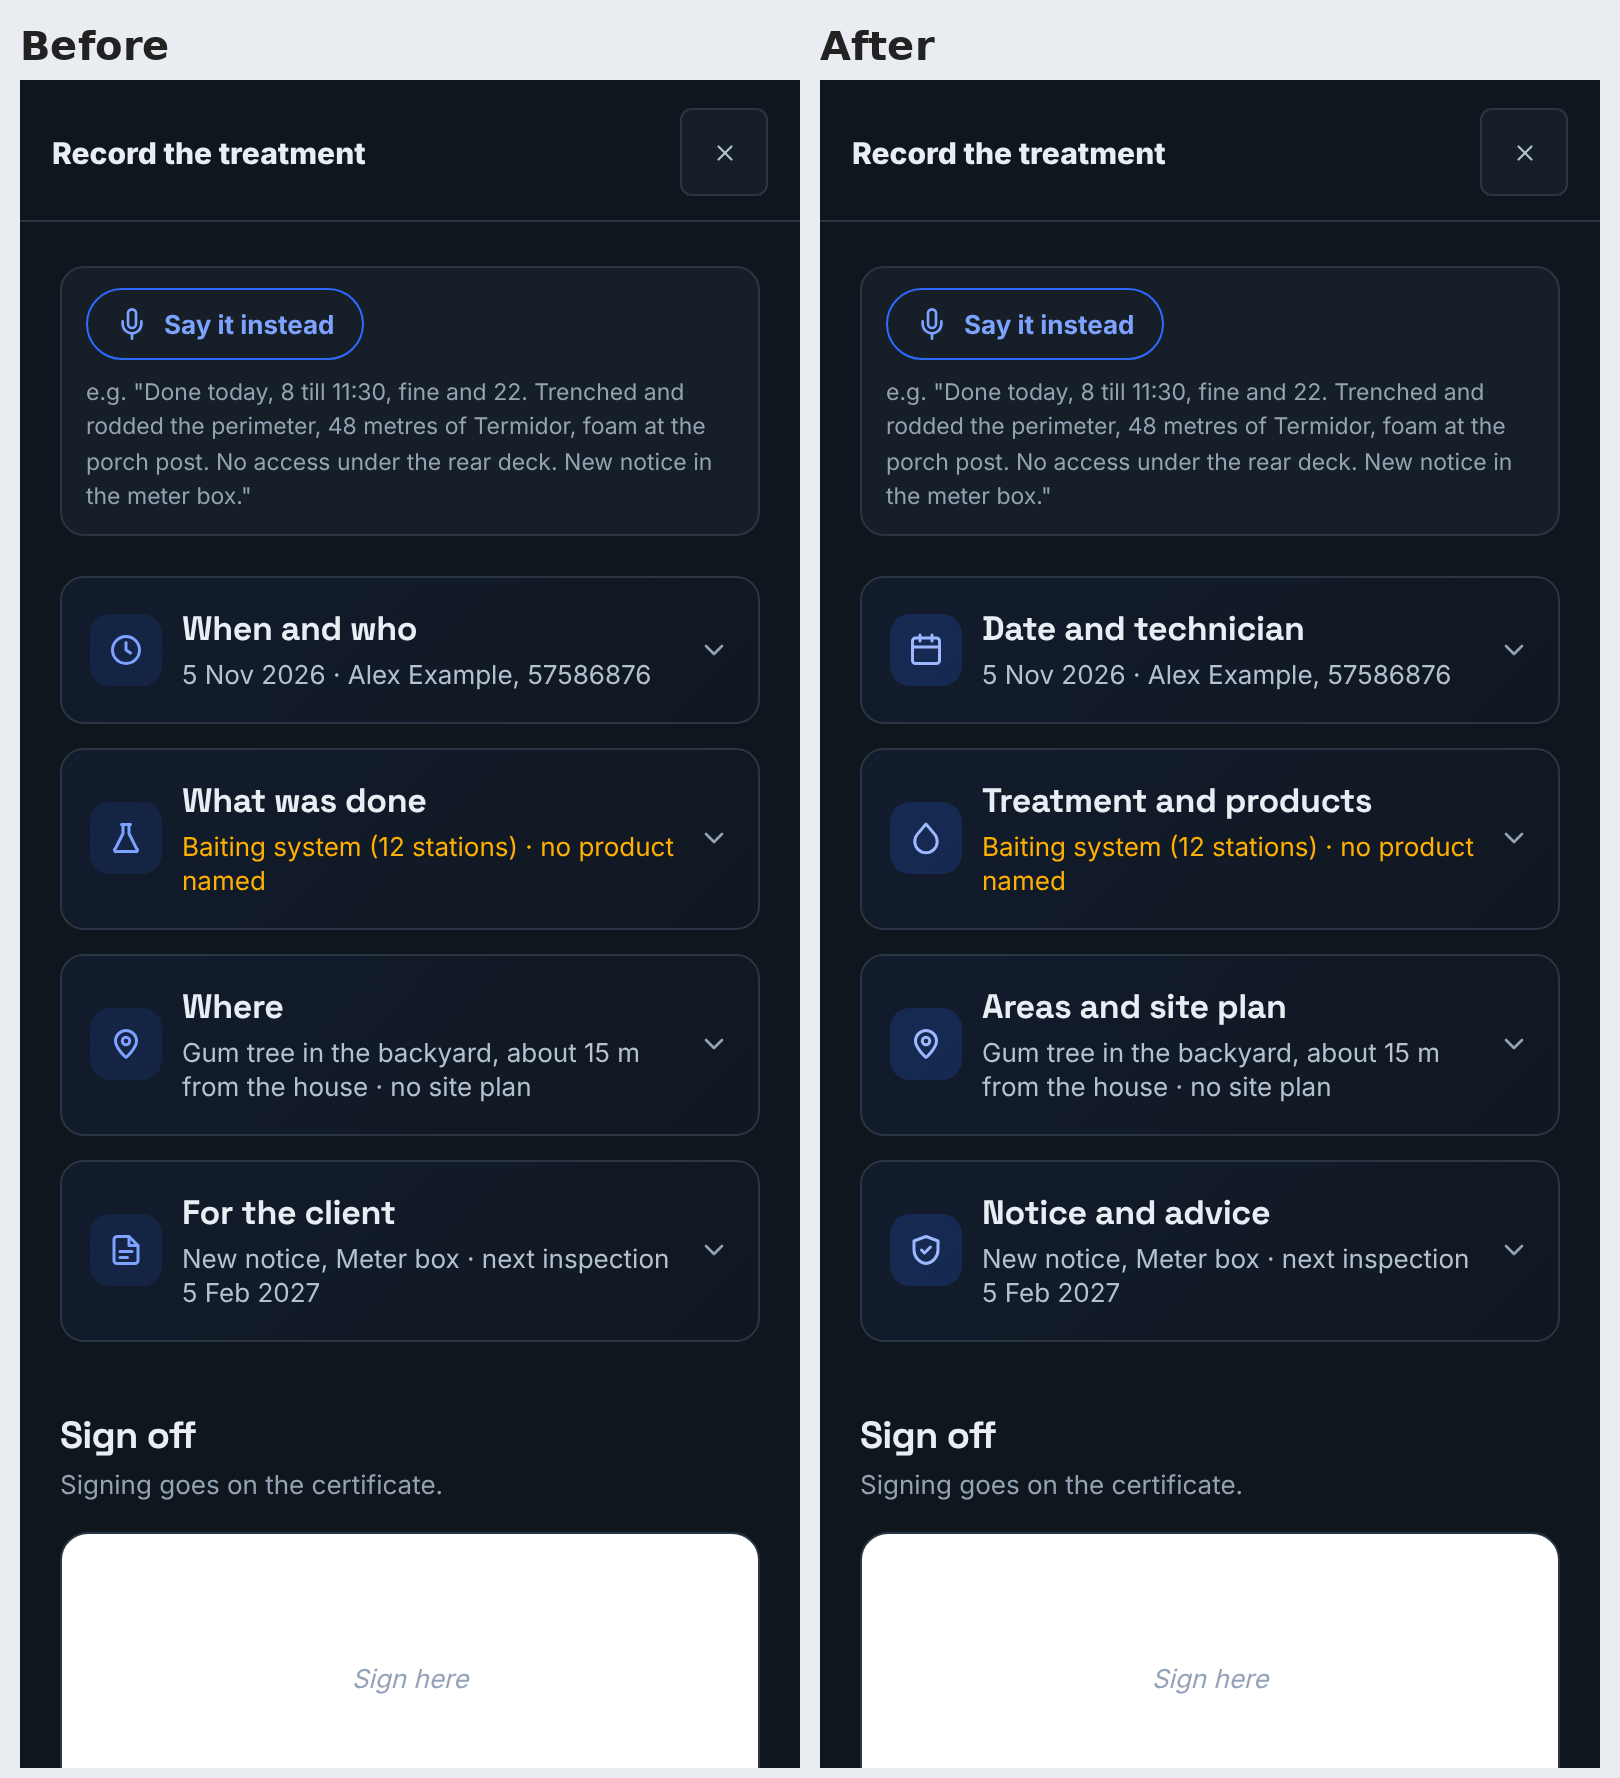
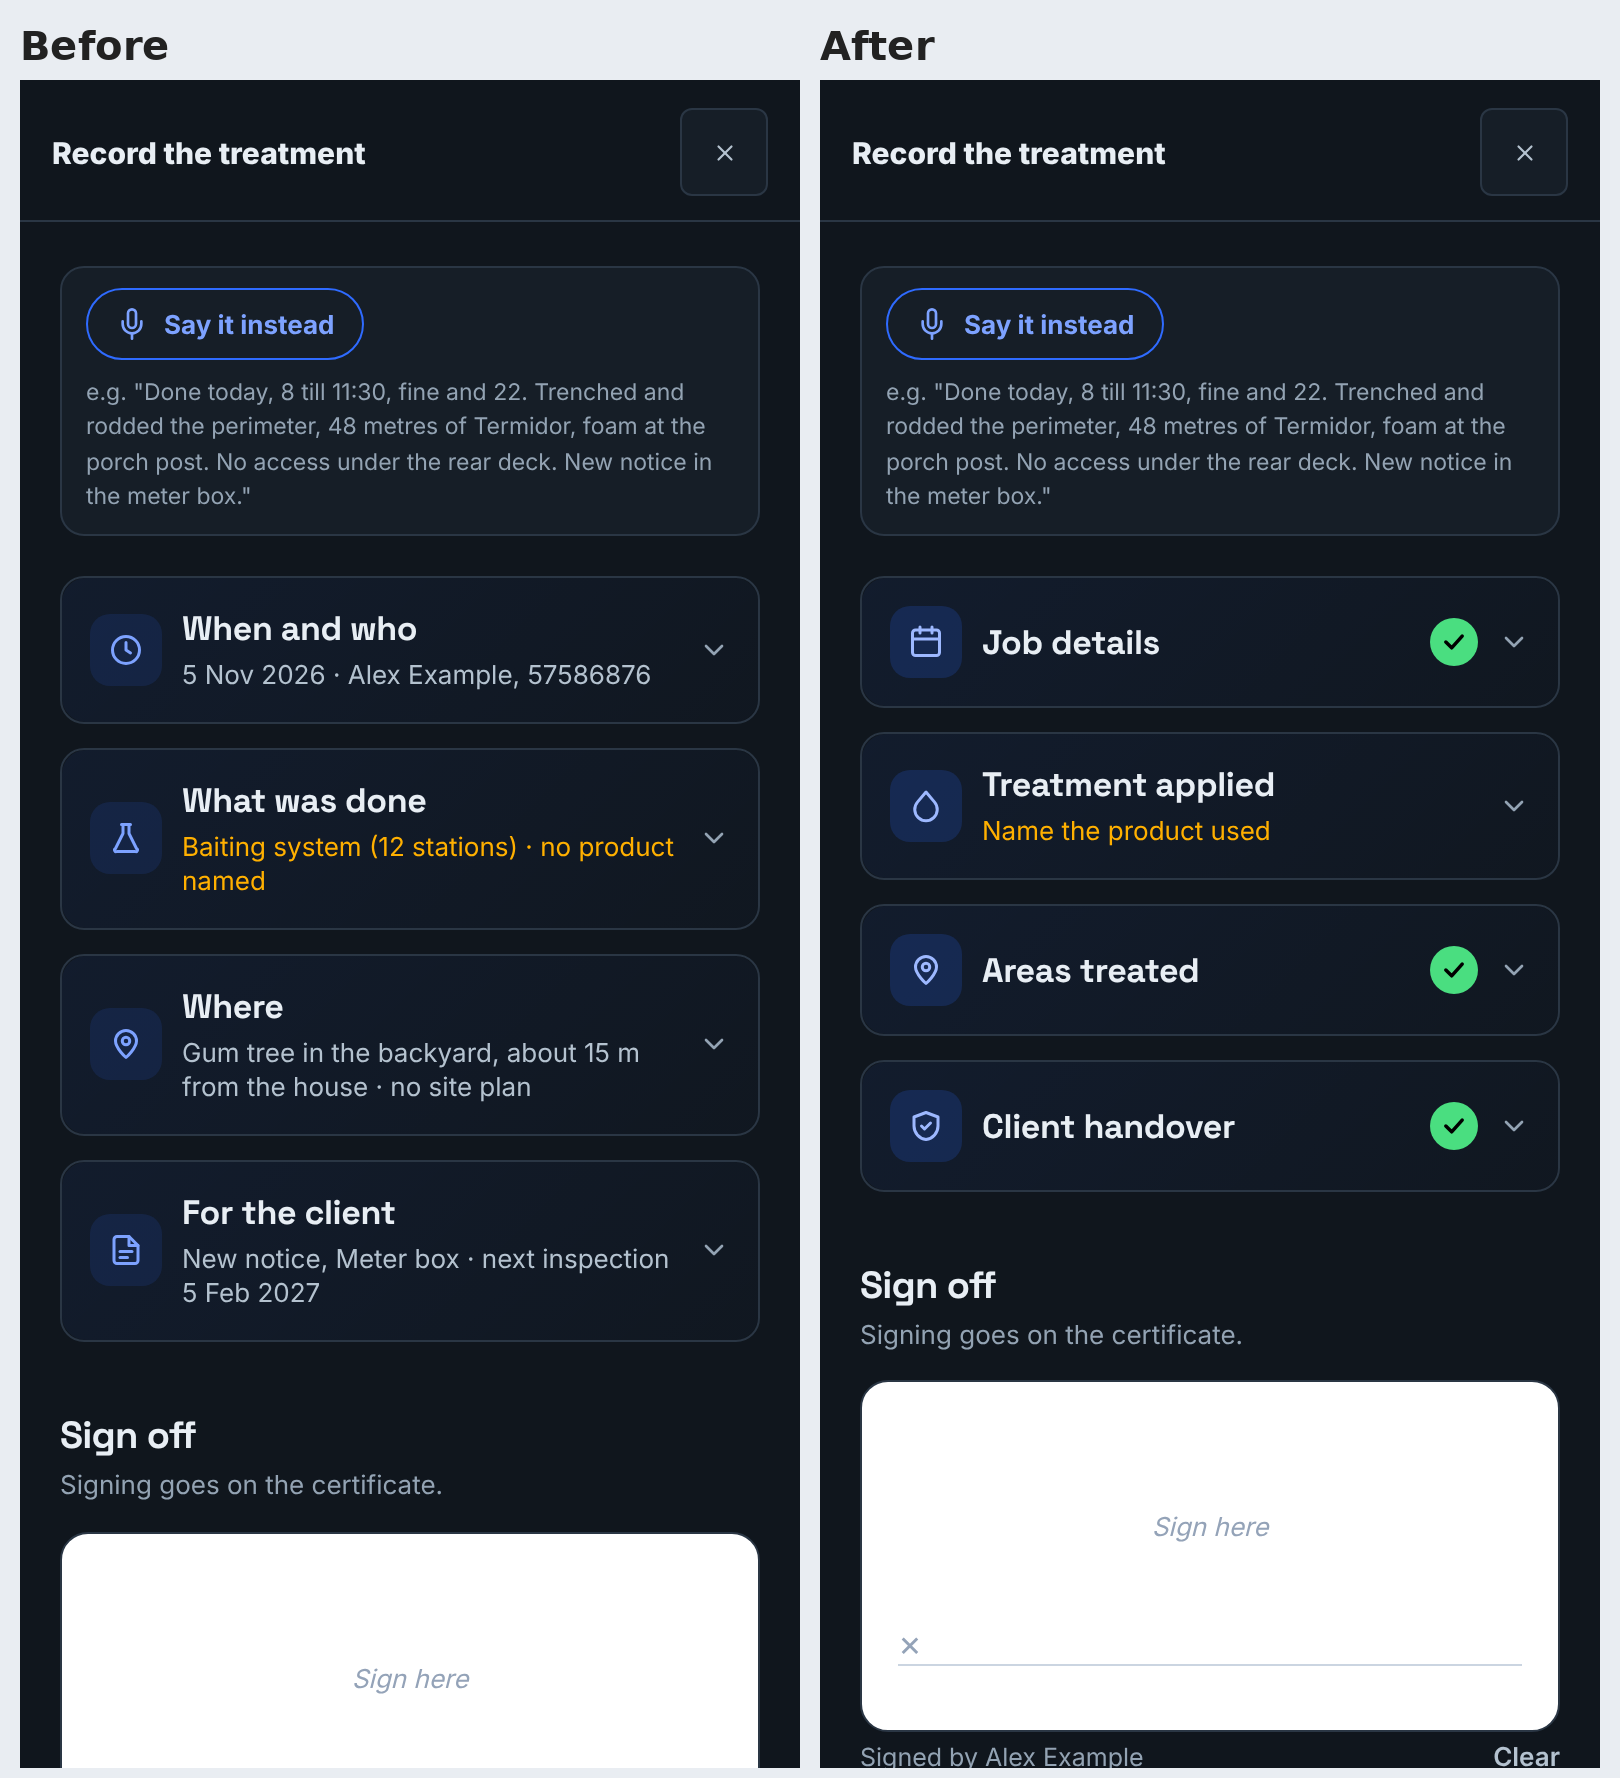
Treatment record: shorter section titles, a tick when a part is done
The four parts are now Job details, Treatment applied, Areas treated and
Client handover. The long summary under each title is gone: a finished
part shows a green tick, and one that still needs something shows a short
amber note (Add the licence no., Name the product used, and so on).
Inside Areas treated the two fields are Treated and Not treated, and why.

Claude-Session: https://claude.ai/code/session_01SL5pNncMuSWewmSgV6B5Sh

diff --git a/index.html b/index.html
@@ -573,7 +573,8 @@
       <details class="quote-card quote-fold sheet-fold" id="trFold1">
         <summary>
           <span class="fgroup-icon" aria-hidden="true"><svg class="icon" width="18" height="18" viewBox="0 0 24 24" fill="none" stroke="currentColor" stroke-width="2" stroke-linecap="round" stroke-linejoin="round"><rect x="3" y="4" width="18" height="17" rx="2"/><path d="M16 2v4"/><path d="M8 2v4"/><path d="M3 10h18"/></svg></span>
-          <span class="quote-fold-text"><span class="quote-card-title">Date and technician</span><span class="quote-fold-sub" id="trSub1"></span></span>
+          <span class="quote-fold-text"><span class="quote-card-title">Job details</span><span class="quote-fold-sub" id="trSub1"></span><span class="sr-only sheet-fold-done-text">Done</span></span>
+          <span class="sheet-fold-done" aria-hidden="true"><svg class="icon" width="14" height="14" viewBox="0 0 24 24" fill="none" stroke="currentColor" stroke-width="3" stroke-linecap="round" stroke-linejoin="round"><path d="m5 12 5 5 9-10"/></svg></span>
           <svg class="icon quote-fold-chev" width="16" height="16" viewBox="0 0 24 24" fill="none" stroke="currentColor" stroke-width="2" stroke-linecap="round" stroke-linejoin="round"><path d="m6 9 6 6 6-6"/></svg>
         </summary>
         <div class="sheet-fold-body">
@@ -625,7 +626,8 @@
       <details class="quote-card quote-fold sheet-fold" id="trFold2">
         <summary>
           <span class="fgroup-icon" aria-hidden="true"><svg class="icon" width="18" height="18" viewBox="0 0 24 24" fill="none" stroke="currentColor" stroke-width="2" stroke-linecap="round" stroke-linejoin="round"><path d="M12 2.7 6.3 9.4a7.5 7.5 0 1 0 11.4 0z"/></svg></span>
-          <span class="quote-fold-text"><span class="quote-card-title">Treatment and products</span><span class="quote-fold-sub" id="trSub2"></span></span>
+          <span class="quote-fold-text"><span class="quote-card-title">Treatment applied</span><span class="quote-fold-sub" id="trSub2"></span><span class="sr-only sheet-fold-done-text">Done</span></span>
+          <span class="sheet-fold-done" aria-hidden="true"><svg class="icon" width="14" height="14" viewBox="0 0 24 24" fill="none" stroke="currentColor" stroke-width="3" stroke-linecap="round" stroke-linejoin="round"><path d="m5 12 5 5 9-10"/></svg></span>
           <svg class="icon quote-fold-chev" width="16" height="16" viewBox="0 0 24 24" fill="none" stroke="currentColor" stroke-width="2" stroke-linecap="round" stroke-linejoin="round"><path d="m6 9 6 6 6-6"/></svg>
         </summary>
         <div class="sheet-fold-body">
@@ -649,16 +651,17 @@
       <details class="quote-card quote-fold sheet-fold" id="trFold3">
         <summary>
           <span class="fgroup-icon" aria-hidden="true"><svg class="icon" width="18" height="18" viewBox="0 0 24 24" fill="none" stroke="currentColor" stroke-width="2" stroke-linecap="round" stroke-linejoin="round"><path d="M12 21s-7-6.2-7-11a7 7 0 0 1 14 0c0 4.8-7 11-7 11z"/><circle cx="12" cy="10" r="2.5"/></svg></span>
-          <span class="quote-fold-text"><span class="quote-card-title">Areas and site plan</span><span class="quote-fold-sub" id="trSub3"></span></span>
+          <span class="quote-fold-text"><span class="quote-card-title">Areas treated</span><span class="quote-fold-sub" id="trSub3"></span><span class="sr-only sheet-fold-done-text">Done</span></span>
+          <span class="sheet-fold-done" aria-hidden="true"><svg class="icon" width="14" height="14" viewBox="0 0 24 24" fill="none" stroke="currentColor" stroke-width="3" stroke-linecap="round" stroke-linejoin="round"><path d="m5 12 5 5 9-10"/></svg></span>
           <svg class="icon quote-fold-chev" width="16" height="16" viewBox="0 0 24 24" fill="none" stroke="currentColor" stroke-width="2" stroke-linecap="round" stroke-linejoin="round"><path d="m6 9 6 6 6-6"/></svg>
         </summary>
         <div class="sheet-fold-body">
       <div class="job-field">
-        <div class="job-field-label">Areas treated</div>
+        <div class="job-field-label">Treated</div>
         <textarea class="job-input" id="trAreas" rows="2" placeholder="e.g. Laundry east wall; perimeter of the building"></textarea>
       </div>
       <div class="job-field">
-        <div class="job-field-label">Areas not treated, and why</div>
+        <div class="job-field-label">Not treated, and why</div>
         <textarea class="job-input" id="trNotTreated" rows="2" placeholder="e.g. Under the rear deck, no access"></textarea>
       </div>
       <div class="job-field">
@@ -703,7 +706,8 @@
       <details class="quote-card quote-fold sheet-fold" id="trFold4">
         <summary>
           <span class="fgroup-icon" aria-hidden="true"><svg class="icon" width="18" height="18" viewBox="0 0 24 24" fill="none" stroke="currentColor" stroke-width="2" stroke-linecap="round" stroke-linejoin="round"><path d="M12 3 4 6v6c0 4.5 3.4 8.3 8 9 4.6-.7 8-4.5 8-9V6z"/><path d="m9 12 2 2 4-4"/></svg></span>
-          <span class="quote-fold-text"><span class="quote-card-title">Notice and advice</span><span class="quote-fold-sub" id="trSub4"></span></span>
+          <span class="quote-fold-text"><span class="quote-card-title">Client handover</span><span class="quote-fold-sub" id="trSub4"></span><span class="sr-only sheet-fold-done-text">Done</span></span>
+          <span class="sheet-fold-done" aria-hidden="true"><svg class="icon" width="14" height="14" viewBox="0 0 24 24" fill="none" stroke="currentColor" stroke-width="3" stroke-linecap="round" stroke-linejoin="round"><path d="m5 12 5 5 9-10"/></svg></span>
           <svg class="icon quote-fold-chev" width="16" height="16" viewBox="0 0 24 24" fill="none" stroke="currentColor" stroke-width="2" stroke-linecap="round" stroke-linejoin="round"><path d="m6 9 6 6 6-6"/></svg>
         </summary>
         <div class="sheet-fold-body">

diff --git a/js/treatment.js b/js/treatment.js
@@ -357,37 +357,21 @@ function openTreatmentRecord() {
   document.querySelector('#treatmentOverlay .page-sheet-body').scrollTop = 0;
 }
 
-// ── THE FOLDS ── Each part of the record folds to one line saying what it
-// holds, amber when something the certificate needs is missing. On opening
-// (and after a voice fill) the parts with a gap open and the rest fold.
+// ── THE FOLDS ── Each part of the record folds to its title, with a tick
+// once it's done, or a short amber note saying what the certificate still
+// needs. On opening (and after a voice fill) the parts with a gap open and
+// the rest fold.
 function treatmentFoldLines() {
   const v = id => document.getElementById(id).value.trim();
-  const tech = v('trTech'), lic = v('trLicence');
-  const times = [v('trStart'), v('trFinish')].filter(Boolean).map(formatClockTime).join('–');
-  const when = [v('trDate') ? formatAnswerDate(v('trDate')) : '', times].filter(Boolean).join(', ');
-  const ticked = [...document.querySelectorAll('#trMethods input[type=checkbox]:checked')].map(box => {
-    const m = TREATMENT_METHODS[box.dataset.key] || {};
-    const qty = document.querySelector(`#trMethods [data-qty="${box.dataset.key}"]`);
-    const n = qty && qty.value.trim();
-    return (m.short || m.label || box.dataset.key) + (n ? ` (${n} ${m.qty === 'stations' ? 'stations' : 'm'})` : '');
-  });
+  const ticked = document.querySelectorAll('#trMethods input[type=checkbox]:checked').length;
   const products = readTreatmentProducts().map(p => p.name).filter(Boolean);
-  const areas = v('trAreas');
-  const plan = sitePlanHasContent(treatmentPlanDraft) ? 'site plan drawn' : treatmentSketch && !treatmentSketch.empty ? 'sketch drawn' : '';
   const notice = v('trNotice');
-  const noticeText = notice === 'none' ? 'No notice placed' : `${notice === 'updated' ? 'Notice updated' : 'New notice'}${v('trNoticeWhere') ? ', ' + v('trNoticeWhere') : ''}`;
-  const next = v('trNext');
+  const need = text => ({ warn: true, text });
   return [
-    !tech ? { warn: true, text: `${when ? when + '. ' : ''}Technician not filled in` }
-      : !lic ? { warn: true, text: `${tech}, licence no. missing` }
-      : { text: [when, `${tech}, ${lic}`].filter(Boolean).join(' · ') },
-    !ticked.length ? { warn: true, text: 'Nothing ticked yet' }
-      : !products.length ? { warn: true, text: `${ticked.join(', ')} · no product named` }
-      : { text: `${ticked.join(', ')} · ${products.join(', ')}` },
-    !areas ? { warn: true, text: `Areas treated not filled in${plan ? ' · ' + plan : ''}` }
-      : { text: [areas.split(/\n/)[0], plan || 'no site plan'].join(' · ') },
-    notice !== 'none' && !v('trNoticeWhere') ? { warn: true, text: 'Say where the notice went' }
-      : { warn: !next, text: [noticeText, next ? 'next inspection ' + formatAnswerDate(next) : 'next inspection date missing'].join(' · ') },
+    !v('trTech') ? need('Add the technician') : !v('trLicence') ? need('Add the licence no.') : {},
+    !ticked ? need('Tick what was done') : !products.length ? need('Name the product used') : {},
+    !v('trAreas') ? need('Add the areas treated') : {},
+    notice !== 'none' && !v('trNoticeWhere') ? need('Say where the notice went') : !v('trNext') ? need('Add the next inspection date') : {},
   ];
 }
 
@@ -395,9 +379,11 @@ function renderTreatmentFolds(reset) {
   if (!document.getElementById('trFold1')) return;
   treatmentFoldLines().forEach((line, i) => {
     const sub = document.getElementById('trSub' + (i + 1));
-    sub.textContent = line.text;
+    sub.textContent = line.text || '';
     sub.classList.toggle('warn', !!line.warn);
-    if (reset) document.getElementById('trFold' + (i + 1)).open = !!line.warn;
+    const fold = document.getElementById('trFold' + (i + 1));
+    fold.classList.toggle('done', !line.warn);
+    if (reset) fold.open = !!line.warn;
   });
 }
 

diff --git a/css/app.css b/css/app.css
@@ -2870,6 +2870,13 @@ body:not(.dark-screen) .sheet-secs > .sheet-voice { background: var(--accent-was
 body:not(.dark-screen) .sheet-secs > .sheet-voice .sheet-voice-hint { color: var(--text2); }
 body.dark-screen .sheet-folds .job-input::placeholder { color: #75879A; }
 .sheet-folds .sheet-more { border-color: var(--border2); }
+/* A finished part shows a green tick beside its chevron, and no line under
+   its title; a part that still needs something shows a short amber note. */
+.sheet-folds .quote-fold-sub:empty { display: none; }
+.sheet-fold-done { display: none; flex-shrink: 0; width: 24px; height: 24px; border-radius: 99px; place-items: center; background: var(--green); color: #fff; }
+.sheet-fold.done .sheet-fold-done { display: grid; }
+.sheet-fold:not(.done) .sheet-fold-done-text { display: none; }
+body.dark-screen .sheet-fold-done { color: #000; }
 .sheet-folds .sheet-more > summary { color: var(--text); }
 
 /* Check before sending */
